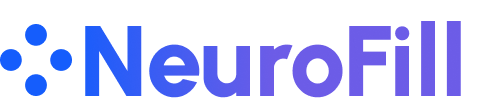
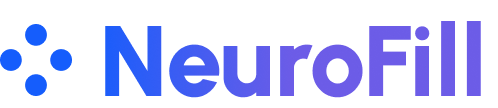
feat: brand name bug

diff --git a/src/components/ui/brand-name.tsx b/src/components/ui/brand-name.tsx
@@ -1,19 +1,25 @@
-import Image from "next/image";
 import React from "react";
+import { CgEditUnmask } from "react-icons/cg";
 
 const BrandName = ({ size }: { size: number }) => {
   return (
-    <Image
+    <p
       style={{
+        fontSize: size,
         height: size,
       }}
-      objectFit="contain"
-      className="object-contain w-fit flex"
-      src={"/images/app.png"}
-      height={size}
-      width={size * 100}
-      alt="NeuroFill Logo"
-    />
+      className={`font-bold leading-tight bg-gradient-to-r from-primary to-secondary bg-clip-text text-transparent gap-1 flex items-center ${
+        size ? "" : "brandname"
+      }`}
+    >
+      <CgEditUnmask
+        style={{
+          fontSize: size - 5,
+        }}
+        className="text-primary"
+      />{" "}
+      NeuroFill
+    </p>
   );
 };
 
